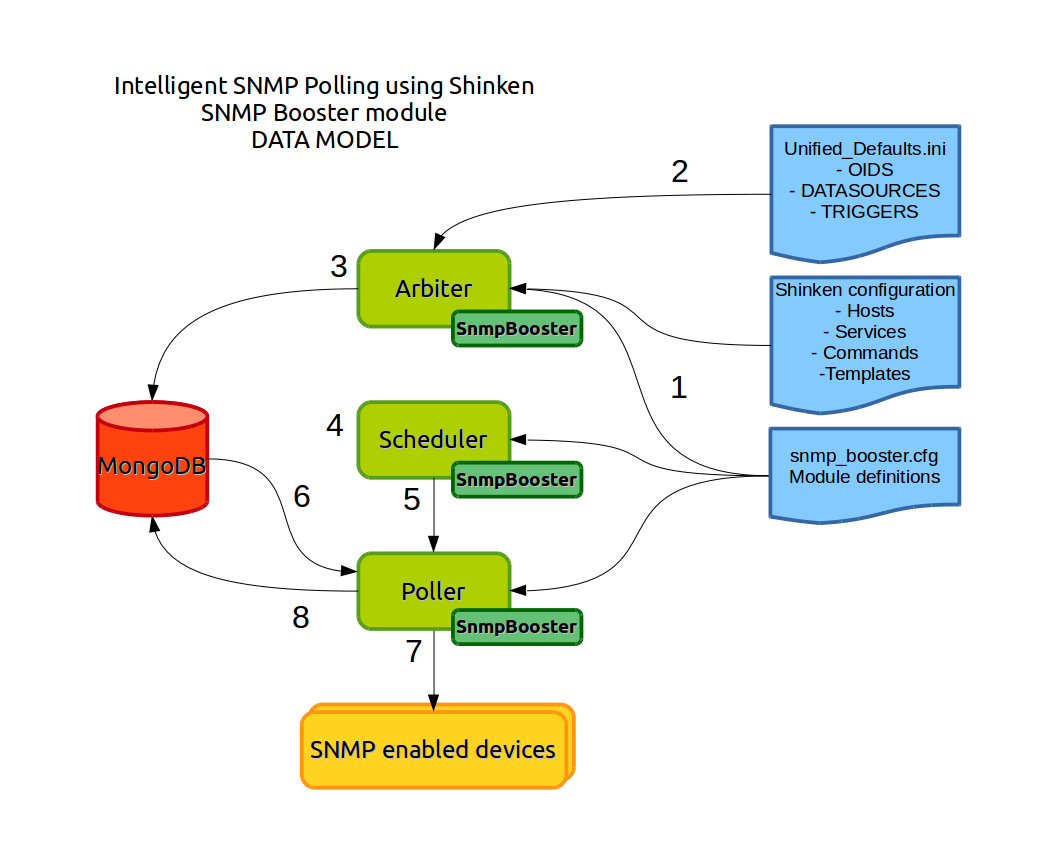
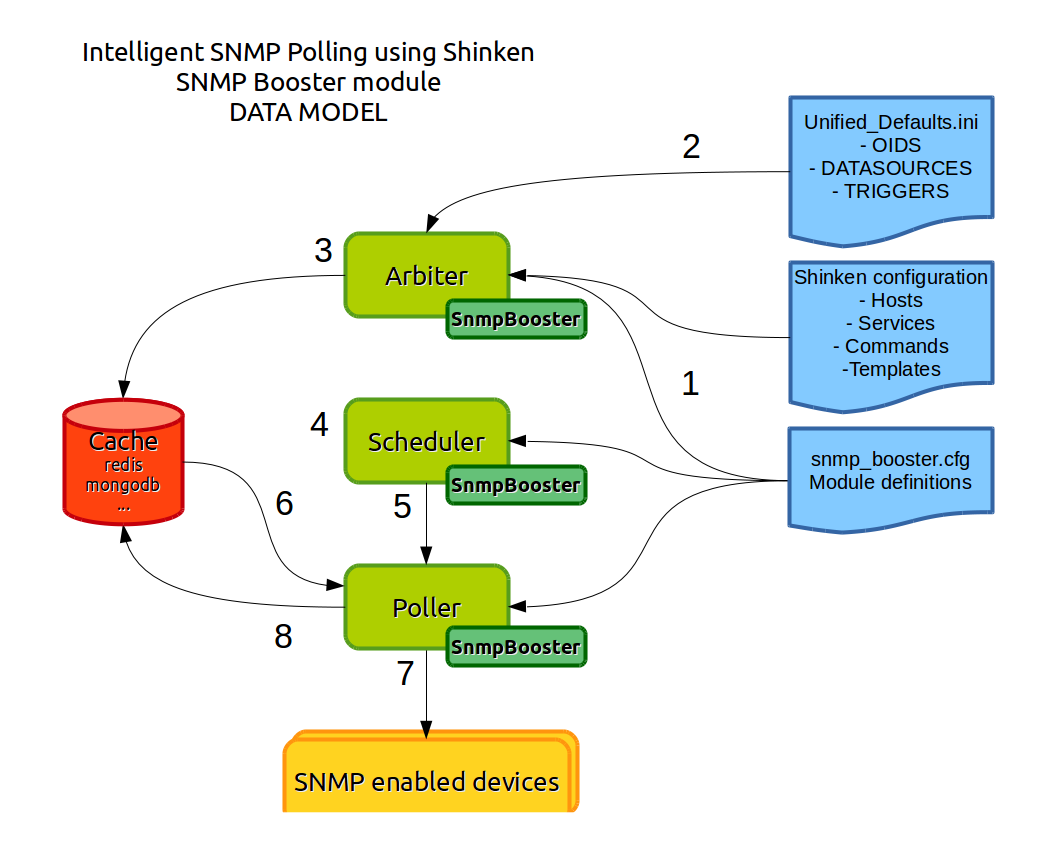
Update documentation

diff --git a/doc/snmpbooster_troubleshooting.rst b/doc/snmpbooster_troubleshooting.rst
@@ -11,21 +11,21 @@ Check your config
   - Have you defined the correct path to the directory containing your Defaults*.ini files?
   - Have you addded the Snmpbooster module to your arbiter, poller, scheduler?
   - Have you added copied the genDevConfig templates.cfg in shinken/packs/network/SnmpBooster/
-  - Have you installed PySNMP, mongodb and other dependencies?
+  - Have you installed PySNMP, Redis and other dependencies?
 
 Software version consistency
 ============================
 
 Shinken and SnmpBooster now require **the same Python and Pyro version on all hosts running a Shinken daemon**.
 
-If you cannot use the packaged version of Python and its modules (Pyro, mongodb, etc.). Use `virtualenv`_ to declare a python version to use and install all required modules in that virtualenv.
+If you cannot use the packaged version of Python and its modules (Pyro, redis, etc.). Use `virtualenv`_ to declare a python version to use and install all required modules in that virtualenv.
 
 .. _virtualenv: http://pypi.python.org/pypi/virtualenv
 
 Software version requirements
 =============================
 
-Have you verified that the :ref:`requirements <setup_snmp_booster_module>` are met. Python, PySNMP, Shinken, Pyro, mongodb, etc.
+Have you verified that the :ref:`requirements <setup_snmp_booster_module>` are met. Python, PySNMP, Shinken, Pyro, redis, etc.
 
 Validate your check command arguments
 =====================================
@@ -49,8 +49,8 @@ Take a packet trace using a tool like Wireshark to validate that the remote host
 Performance
 ===========
 
-Make sure you have a low latency connection to your mongodb from the Poller. 
-Check that mongodb is running: ``netstat -a | grep mongodb``
+Make sure you have a low latency connection to your redis from the Poller. 
+Check that redis is running: ``netstat -a | grep redis``
 
 Faulty Template
 ===============
@@ -66,7 +66,7 @@ Log files
 
 All warnings and errors generated by the SnmpBooster module start with "[SnmpBooster] error text" and are logged using the standard Shinken logger.
 
-The Arbiter daemon can output initial configuration, loading of host,service keys in mongodb type error messages.
+The Arbiter daemon can output initial configuration, loading of host,service keys in redis type error messages.
 The Scheduler daemon can output scheduling and alert related messages.
 The Poller daemon can output messages related to instance mapping, acquisition timeouts, invalid community strings, cache failures and more. These are available in the Web interface, as they are placed in the check results for the service.
 
@@ -113,16 +113,16 @@ Code 0201
 Code 0202
     =========== ===========================================================================
     Type        ERROR
-    Description The current service is not found in the cache (MongoDB). Maybe you flush it
+    Description The current service is not found in the cache (Redis). Maybe you flush it
                 ? Check your Shinken configuration and try to restart the Arbiter to 
-                refill the cache (MongoDB)
+                refill the cache (Redio)
     File        `libs/checks.py`
     =========== ===========================================================================
 
 Code 0501
     =========== ===========================================================================
     Type        WARNING
-    Description The Poller didn't found the asked service in the cache (MongoDB). This
+    Description The Poller didn't found the asked service in the cache (Redis). This
                 error should not appear. Please open an issue on GitHub, if you get it.
     File        `libs/results.py`
     =========== ===========================================================================
@@ -197,7 +197,7 @@ Code 0701
 Code 0702
     =========== ===========================================================================
     Type        ERROR
-    Description We didn't found any collected data in the cache (MongoDB) to use in the
+    Description We didn't found any collected data in the cache (Redis) to use in the
                 trigger. We have four possible reasons:
 
                 * The SNMP request is not finished. We have to wait the next check
@@ -210,7 +210,7 @@ Code 0702
 Code 0703
     =========== ===========================================================================
     Type        ERROR
-    Description We didn't found any computed data in the cache (MongoDB) to use in the
+    Description We didn't found any computed data in the cache (Redis) to use in the
                 trigger. We have two possible reasons:
 
                 * The current service use a datasource which is a DERIVE, so we need TWO
@@ -331,7 +331,7 @@ Code 0907
     =========== ===========================================================================
     Type        ERROR
     Description We got an error during the serialization of service configuration just
-                before put it in the cache (MongoDB)
+                before put it in the cache (Redis)
     File        `snmpbooster_arbiter.py`
     =========== ===========================================================================
 
@@ -407,21 +407,21 @@ Code 1102
 Code 1201
     =========== ===========================================================================
     Type        ERROR
-    Description **PyMongo** module can not be loaded. Please check your installation
+    Description **Python Redis** module can not be loaded. Please check your installation
     File        `libs/dbclient.py`
     =========== ===========================================================================
 
 Code 1202
     =========== ===========================================================================
     Type        ERROR
-    Description Can not connect to the MongoDB server. Please check your configuration
+    Description Can not connect to the Redis server. Please check your configuration
     File        `libs/dbclient.py`
     =========== ===========================================================================
 
 Code 1203
     =========== ===========================================================================
     Type        ERROR
-    Description We got an error while writing in the MongoDB. The data passed doesn't
+    Description We got an error while writing in the Redis. The data passed doesn't
                 seem correct
     File        `libs/dbclient.py`
     =========== ===========================================================================
@@ -429,7 +429,7 @@ Code 1203
 Code 1204
     =========== ===========================================================================
     Type        ERROR
-    Description We got an error while a the upsert in the MongoDB of a service. This
+    Description We got an error while a the upsert in the Redis of a service. This
                 error can only occur on the Arbiter
     File        `libs/dbclient.py`
     =========== ===========================================================================
@@ -437,7 +437,7 @@ Code 1204
 Code 1205
     =========== ===========================================================================
     Type        ERROR
-    Description We got an error updating collected data in the MongoDB of a service.
+    Description We got an error updating collected data in the Redis of a service.
                 Thiserror can only occur on the Poller
     File        `libs/dbclient.py`
     =========== ===========================================================================
@@ -446,14 +446,14 @@ Code 1206
     =========== ===========================================================================
     Type        ERROR
     Description We got an error updating instance mapping of a service in the
-                MongoDB. This error can only occur on the Poller
+                Redis. This error can only occur on the Poller
     File        `libs/dbclient.py`
     =========== ===========================================================================
 
 Code 1207
     =========== ===========================================================================
     Type        ERROR
-    Description We got an error getting ONE service in the MongoDB. This error can only
+    Description We got an error getting ONE service in the Redis. This error can only
                 occur on the Poller
     File        `libs/dbclient.py`
     =========== ===========================================================================
@@ -461,7 +461,7 @@ Code 1207
 Code 1208
     =========== ===========================================================================
     Type        ERROR
-    Description We got an error getting several services in the MongoDB. This error can
+    Description We got an error getting several services in the Redis. This error can
                 only occur on the Poller
     File        `libs/dbclient.py`
     =========== ===========================================================================

diff --git a/doc/snmpbooster_how_it_works.rst b/doc/snmpbooster_how_it_works.rst
@@ -32,24 +32,24 @@ Shinken Integration
 
 .. image:: /_static/images/snmpbooster_data_model.png
 
-- 1 - The SnmpBooster Arbiter module reads the Shinken SnmpBooster configuration file(s). It reads the check commands and based on the values in the check commands that use the snmp_poller module it will creates a shared configuration cache using Mongodb. This permits to tie together Shinken Hosts and Services with the SNMP specific configuration. The Scheduler daemon schedules Host and Service checks as it normally does. 
+- 1 - The SnmpBooster Arbiter module reads the Shinken SnmpBooster configuration file(s). It reads the check commands and based on the values in the check commands that use the snmp_poller module it will creates a shared configuration cache using Redis. This permits to tie together Shinken Hosts and Services with the SNMP specific configuration. The Scheduler daemon schedules Host and Service checks as it normally does. 
 
-- 2 - The SnmpBooster Arbiter module computes Shinken configuration with datasource files (.ini files) and prepare datas for MongoDB
+- 2 - The SnmpBooster Arbiter module computes Shinken configuration with datasource files (.ini files) and prepare datas for Redis
 
-- 3 - The SnmpBooster Arbiter module stores an entry in MongoDB for each service defined in Shinken configuration
+- 3 - The SnmpBooster Arbiter module stores an entry in Redis for each service defined in Shinken configuration
 
-- 4 - The SnmpBooster Scheduler module determines which services will launch a SNMP requests and which will be a MongoDB requests
+- 4 - The SnmpBooster Scheduler module determines which services will launch a SNMP requests and which will be a Redis requests
 
 - 5 - Scheduler give tasks to pollers
 
-- 6 - The SnmpBooster Poller module gets datas from MongoDB:
+- 6 - The SnmpBooster Poller module gets datas from Redis:
 
-      - It get the current service if it's a MongoDB request
+      - It get the current service if it's a Redis request
       - It get all services from the host of the current service if it's a SNMP request
 
 - 7 - The SnmpBooster Poller module makes SNMP requests
 
-- 8 - The SnmpBooster Poller module computes and stores collected datas from SNMP in MongoDB
+- 8 - The SnmpBooster Poller module computes and stores collected datas from SNMP in Redis
 
 Performance
 -----------
@@ -69,9 +69,9 @@ The generic SNMP configuration information is stored in the Shinken SnmpBooster 
 Limitations
 ===========
 
-You should have your pollers with SnmpBooster in the same datacenter, as they need to be on the same machine with good connectivity to the active MongoDB server.
+You should have your pollers with SnmpBooster in the same datacenter, as they need to be on the same machine with good connectivity to the active Redis server.
 
-SnmpBooster is not compatible with distributed pollers in multiple datacenters, sorry, the current design of SnmpBooster uses a single centralized MongoDB instance for storing the timeseries data. For distributed datacenters to be supported, each poller+scheduler+mongoDB must be realm restrained, which is not the case today.
+SnmpBooster is not compatible with distributed pollers in multiple datacenters, sorry, the current design of SnmpBooster uses a single centralized Redis instance for storing the timeseries data. For distributed datacenters to be supported, each poller+scheduler+Redis must be realm restrained, which is not the case today.
 
 
 Design specification

diff --git a/doc/setup_snmp_booster_module.rst b/doc/setup_snmp_booster_module.rst
@@ -34,12 +34,12 @@ The SnmpBooster module requires:
   * Shinken 1.2+ < 2.0
   * `PySNMP 4.2.1+ (Python module and its dependencies)`_
   * `ConfigObj (Python module)`_
-  * `python-pymongo`_ <= 2.6.3
-  * MongoDB package for your operating system (ex. For Ubuntu: apt-get install mongodb)
+  * `python-redis`_ >= 2.7.2
+  * Redis package for your operating system (ex. For Ubuntu: apt-get install redis-server)
 
 .. _PySNMP 4.2.1+ (Python module and its dependencies): http://pysnmp.sourceforge.net/download.html
 .. _ConfigObj (Python module): http://www.voidspace.org.uk/python/configobj.html#downloading
-.. _python-pymongo: https://pypi.python.org/pypi/pymongo
+.. _python-redis: https://pypi.python.org/pypi/redis/2.10.3 
 
 The genDevConfig profile generator depends on:
 
@@ -110,7 +110,7 @@ One for the Arbiter:
         module_name          SnmpBoosterArbiter
         module_type          snmp_booster
         datasource           /etc/shinken/snmpbooster_datasource/   ; SET THE DIRECTORY FOR YOUR Defaults*.ini FILES provided by genDevConfig
-        db_host              192.168.1.2   ; SET THE IP ADDRESS OF YOUR mongodb SERVER
+        db_host              192.168.1.2   ; SET THE IP ADDRESS OF YOUR redis SERVER
         loaded_by            arbiter
     }
 
@@ -137,13 +137,13 @@ One for the Poller:
     }
 
 
-If you do not know the IP adress on which your MongoDB is listening, check under /etc/mongodb.conf. Or do a:
+If you do not know the IP adress on which your Redis is listening, check under /etc/redis/redis.con. Or do a:
 
 ::
 
-  netstat -a | grep mongodb
+  netstat -a | grep redis
 
-If you are running a test on the local machine you can leave mongodb on 127.0.0.1 (localhost), but if your poller, scheduler or arbiter is on a different machine, set the mongodb to listen on a real IP address.
+If you are running a test on the local machine you can leave redis on 127.0.0.1 (localhost), but if your poller, scheduler or arbiter is on a different machine, set the redis to listen on a real IP address.
 
 
 Parameters

diff --git a/doc/snmpbooster_design_specification.rst b/doc/snmpbooster_design_specification.rst
@@ -20,7 +20,7 @@ Design specification summary
   * [Done] Be compatible with distributed data acquisition
   * [Done] Collect data for a host/check_interval tuple via SNMP in a single pass
   * [Done] Use all builtin Shinken scheduler logic for retries, forced checks, timeouts, dependencies, parents
-  * [Done] Store collected data for the duration of the check_interval in a MongoDB
+  * [Done] Store collected data for the duration of the check_interval in a Redis
   * [Done] On a restart, after the first collection, be able to pick up where the last check left and calculate derived values
   * [Done] Forced check are not allowed within 30 seconds of last SNMP query to the same host/check_interval, all other requests get data from the cache.
   * [Done] Only a single request to the host/check_interval via SNMP is allowed at a time, all other requests get data from the cache.
